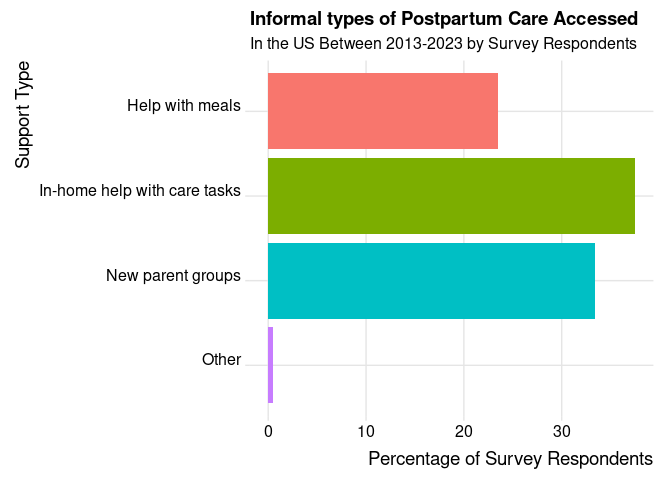
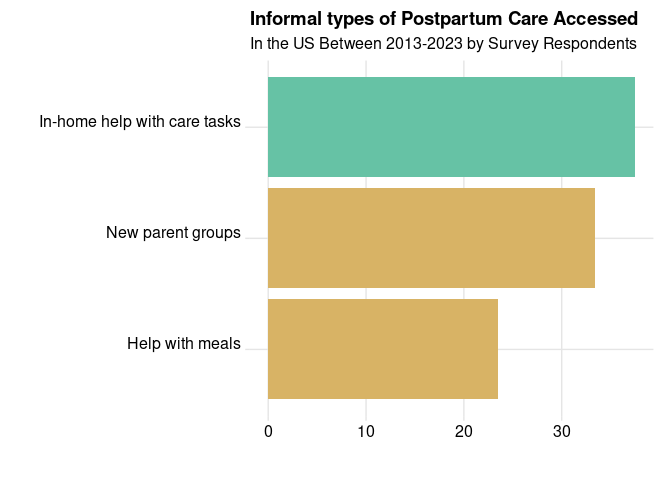
Adjust final bar charts

diff --git a/memo/memo.md b/memo/memo.md
@@ -781,26 +781,24 @@ ggplot(Postpartum, aes(x = regions, y = support_type, fill = regions)) +
 ggsave("example-tile-heatmap-wide.png", width = 10, height = 5)
 ```
 
+### Plot 6: TBD
+
+#### Data cleanup steps specific to plot 6
+
+``` r
+yes_cost_a_factor <- c("I received care from friends and family, had I not had that I wouldn’t have been able to afford to pay for postpartum care services","To some extent, but luckily I could afford almost whatever I wanted/needed.","We strongly considered going to a birth center for my first birth, but they did not accept insurance and it was cost prohibitive. I feel we would have had more postpartum support with my first if we had gone that route.","Had already paid max out of pocket w labor","No referral","lactation specialist not covered, couldn’t afford otherwise","I definitely knew to look for support covered by insurance.","Did on seek in home help due to cost", "Did on seek in home help due to cost","Partially. Had i known there was support, I probably couldnt afford it.", "Yes but we had a generous budget and family to help financially","Unsure of question.... did it cost,  some of it did", "It was definitely a luxury to afford therapist and lactation help but anything other than that I viewed as “extra.”", "No doula $", "Yes but not as much as just not knowing it was available", "If I could afford food delivery, laundry service, etc, I would have hired the help!", "Do not have insurance","Cost to an extent but also Covid played a role- birth in December 2019, brought son home from NICU in 2020 and recovery was long into 2020)", "Copays sometimes.", "Yes in terms of acupuncture etc I didn’t budget for it and wish I did", "My husband and I prioritized Postpartum care highly so yes and no")
+
+cost_not_a_factor <- c("It was more not knowing what services I should have had access to. I know more know with Instagram follows.", "No. I just was unaware of the services that might be helpful. If I had another kid I’d invest in more.", "Covid was, not cost", "Not since we hit our deductible", "Main factor was pandemic. 6 week was nearly canceled, counseling went virtual but took months to initiate")
+
+cost_not_applicable <- c("Did not know post partum services other than the follow up appointment were covered services", "Didn’t even know what type of support was available because no one told me!","The pandemic significantly impacted my lack of access to postpartum support, especially in-person support", "I don't know, I wasn't aware of many services")
 
 
-    ### Plot 6: TBD
-
-    #### Data cleanup steps specific to plot 6
-
-
-    ``` r
-    yes_cost_a_factor <- c("I received care from friends and family, had I not had that I wouldn’t have been able to afford to pay for postpartum care services","To some extent, but luckily I could afford almost whatever I wanted/needed.","We strongly considered going to a birth center for my first birth, but they did not accept insurance and it was cost prohibitive. I feel we would have had more postpartum support with my first if we had gone that route.","Had already paid max out of pocket w labor","No referral","lactation specialist not covered, couldn’t afford otherwise","I definitely knew to look for support covered by insurance.","Did on seek in home help due to cost", "Did on seek in home help due to cost","Partially. Had i known there was support, I probably couldnt afford it.", "Yes but we had a generous budget and family to help financially","Unsure of question.... did it cost,  some of it did", "It was definitely a luxury to afford therapist and lactation help but anything other than that I viewed as “extra.”", "No doula $", "Yes but not as much as just not knowing it was available", "If I could afford food delivery, laundry service, etc, I would have hired the help!", "Do not have insurance","Cost to an extent but also Covid played a role- birth in December 2019, brought son home from NICU in 2020 and recovery was long into 2020)", "Copays sometimes.", "Yes in terms of acupuncture etc I didn’t budget for it and wish I did", "My husband and I prioritized Postpartum care highly so yes and no")
-
-    cost_not_a_factor <- c("It was more not knowing what services I should have had access to. I know more know with Instagram follows.", "No. I just was unaware of the services that might be helpful. If I had another kid I’d invest in more.", "Covid was, not cost", "Not since we hit our deductible", "Main factor was pandemic. 6 week was nearly canceled, counseling went virtual but took months to initiate")
-
-    cost_not_applicable <- c("Did not know post partum services other than the follow up appointment were covered services", "Didn’t even know what type of support was available because no one told me!","The pandemic significantly impacted my lack of access to postpartum support, especially in-person support", "I don't know, I wasn't aware of many services")
-
-
-    #Postpartum_Experience_renamed_variables_US %>% 
-     # mutate(cost_factor = case_when(cost_factor %in% yes_cost_a_factor ~ "Yes",
-                                         # cost_factor %in% cost_not_a_factor ~ "No",
-                                         # cost_factor %in% cost_not_applicable ~ "N/A",
-           #   TRUE ~ cost_factor))
+#Postpartum_Experience_renamed_variables_US %>% 
+ # mutate(cost_factor = case_when(cost_factor %in% yes_cost_a_factor ~ "Yes",
+                                     # cost_factor %in% cost_not_a_factor ~ "No",
+                                     # cost_factor %in% cost_not_applicable ~ "N/A",
+       #   TRUE ~ cost_factor))
+```
 
 ### Plot 7: Missing Data
 
@@ -831,38 +829,47 @@ Postpartum |>
          support_type != "New parent groups",
          support_type != "In-home help with care tasks",
          support_type != "Other",
+         support_type != "None of the above",
          support_type != "Help with meals") |>
-  ggplot(mapping = aes(x = fct_rev(fct_infreq(support_type)), fill = support_type)) +
-  geom_bar() +
+  select(respondent, support_type) |>
+  count(support_type) |>
+  mutate(percentage = n / 784 *100) |>
+ggplot(mapping = aes(x = fct_reorder(support_type, percentage), y = percentage, fill = support_type)) +
+  geom_col() +
   scale_fill_manual(
     values = c(
-      "In-home follow up appointments" = "#d95f02",
-      "Massage or chiropractic" = "#d95f02",
-      "Acupuncture" = "#d95f02",
-      "default" = "#66c2a5")) +
-  #scale_fill_manual(
-   # values = c(
-    #  "Lactation support" = "#66c2a5",
-     # "Emotional support" = "#66c2a5",
-      #"Pelvic floor PT" = "#66c2a5",
-    #  "Hospital/office follow up appointments" = "#66c2a5"))
-     #  "default" = "darkblue")) +
+      "Lactation support" = "#d95f02",
+      "Massage or chiropractic" = "#66c2a5",
+      "Acupuncture" = "#66c2a5",
+      "Emotional support" = "#af8dc3",
+      "Hospital/office follow up appointments" = "#d95f02",
+      "In-home follow up appointments" = "#66c2a5",
+      "Pelvic floor PT" = "#d95f02")
+    ) +
   theme_bw() +
   theme_ridges() +
   theme(legend.position = 'none') + 
   coord_flip() +
   labs(title = "Formal types of Postpartum Care Accessed", 
        subtitle = "In the US Between 2013-2023 by Survey Respondents", 
-       x = "Support Type", 
-       y = "Number of Survey Respondents",
-       caption = "The highlighted care types have been defined as care that increases the birthing parent and baby’s 
-       physical and emotional wellbeing beyond baseline services."
-       ) 
+        x = "", 
+       y = "")
 ```
 
-![](memo_files/figure-gfm/formal-plot-1.png)<!-- -->
+![](memo_files/figure-gfm/formal-bar-chart-1.png)<!-- -->
 
 ``` r
+    #    x = "Support Type", 
+    #   y = "Percentage of Survey Respondents",
+    #   caption = "The highlighted care types have been defined as care that increases the birthing parent and baby’s physical and emotional wellbeing beyond baseline services."
+
+#baseline #d95f02
+#physical #66c2a5
+#community #d8b365
+#emotional #af8dc3
+      
+
+
 #ggsave("example-postpartum-wide-2.png", width = 10, height = 4)
 ```
 
@@ -876,27 +883,36 @@ Postpartum |>
          support_type != "Massage or chiropractic",
          support_type != "In-home follow up appointments",
          support_type != "Acupuncture",
+         support_type != "Other",
          support_type != "None of the above") |>
   select(respondent, support_type) |>
   count(support_type) |>
   mutate(percentage = n / 784 *100) |>
-ggplot(mapping = aes(x = fct_rev(fct_infreq(support_type)), y = percentage, fill = support_type)) +
+ggplot(mapping = aes(x = fct_reorder(support_type, percentage), y = percentage, fill = support_type))  +
   geom_col() +
+  scale_fill_manual(
+    values = c(
+      "Help with meals" = "#d8b365",
+      "In-home help with care tasks" = "#66c2a5",
+      "New parent groups" = "#d8b365"
+    )) +
   theme_bw() +
   theme_ridges() +
   theme(legend.position = 'none') + 
   coord_flip() +
   labs(title = "Informal types of Postpartum Care Accessed", 
-       subtitle = "In the US Between 2013-2023 by Survey Respondents", 
-       x = "Support Type", 
-       y = "Percentage of Survey Respondents",
-     #  caption = "The highlighted care types have been defined as care that increases the birthing parent and baby’s  physical and emotional wellbeing beyond baseline services."
-       ) 
+       subtitle = "In the US Between 2013-2023 by Survey Respondents",
+       x = "",
+       y = "")
 ```
 
 ![](memo_files/figure-gfm/informal-bar-chart-1.png)<!-- -->
 
 ``` r
+       #  x = "Support Type"
+    #   y = "Percentage of Survey Respondents",
+     #  caption = "The highlighted care types have been defined as care that increases the birthing parent and baby’s  physical and emotional wellbeing beyond baseline services."
+
 # Knowing the number of total respondents (in the US) made it easier to calculate percentage based on this set number 
 ```
 
